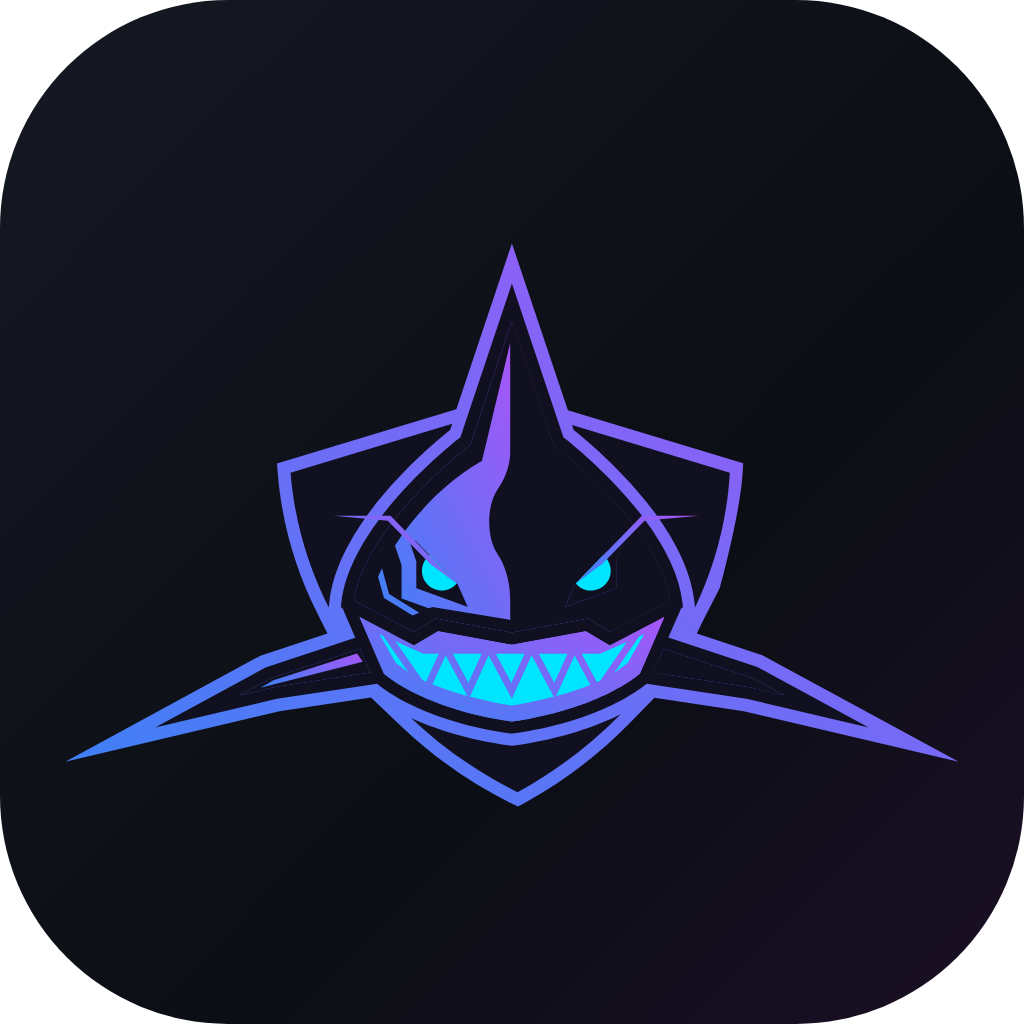
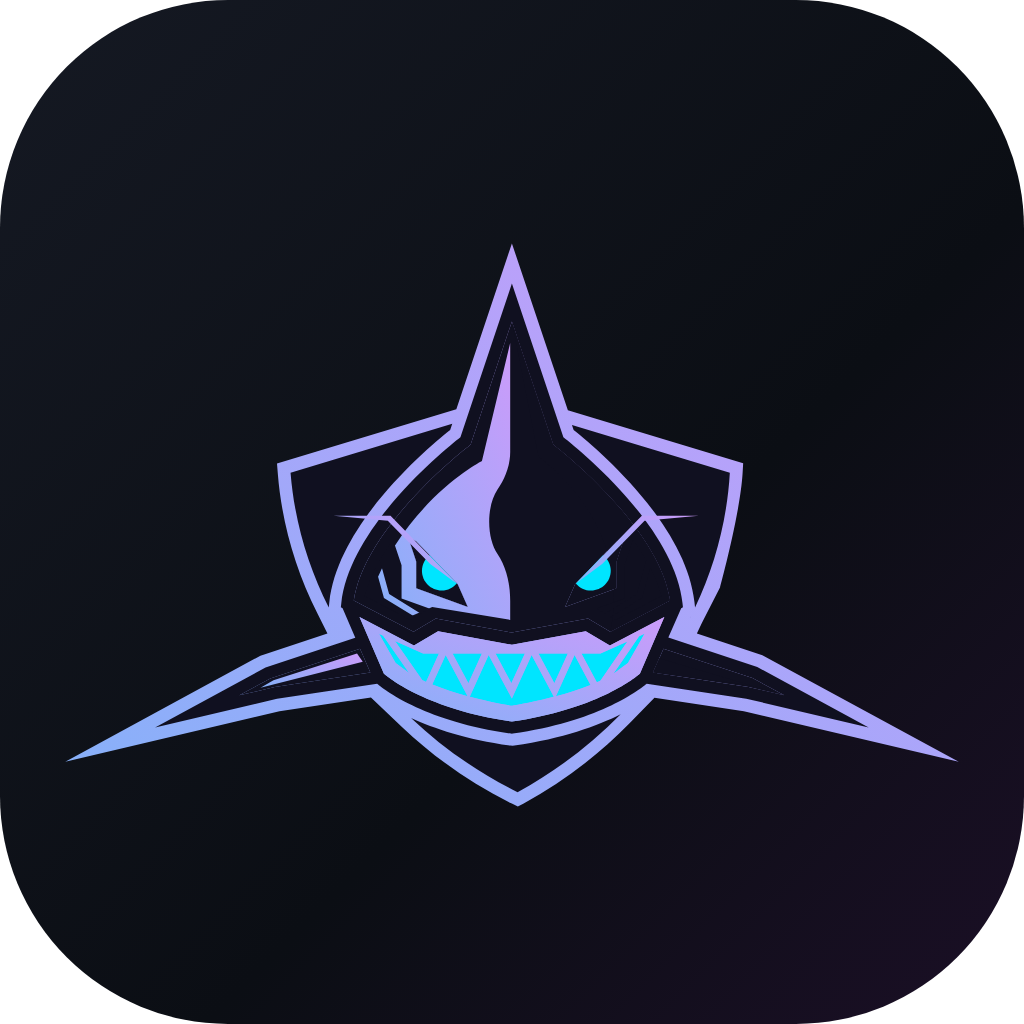
Breach was racing its own fade-in, and nobody outside an installed app could see it at all
Three things reported against the previous commit, in order.

The mark was barely legible in the header: measured, not just eyeballed
-#3B82F6/#A855F7 only clears 5.0-5.4:1 against the dark grounds it sits
on, against 13.4:1 for the mint it replaced and 18:1 for the JUKE
wordmark beside it. Brightened to #85B1F9/#CC9BFA (~9:1, same hue, held
lightness up rather than down) across every dark-ground file - mark,
void, appbar, app, both favicons, both app icons - and rebuilt the PNG
and .ico outputs from the new SVGs. The light-theme mark already had its
own separately-tuned gradient and needed nothing here.

Breach never played in an ordinary browser tab, on desktop or mobile,
because #boot-sonar inherited a restriction from the Sonar version that
scoped it to an installed/standalone app's cold launch only. Removed the
restriction rather than the report: theme.js no longer stamps
data-standalone, the CSS gate is gone, and main.jsx's teardown runs
unconditionally. The overlay now costs every visit its ~2s, the same
trade the "no skip-gate" decision already made once for fast connections
- this is that same argument, aimed at a bigger gate.

With Breach actually visible, two more things surfaced. First, every
Breach element had animation-delay 0 while the overlay itself took 200ms
to fade to opaque, so the shark was already mid-launch while the
homepage was still visible through it - a real recording caught it
mid-glitch. Added --breach-start-delay (200ms) to every element
[…]

Changed region(s): [[0.0625, 0.25, 0.9375, 0.7812], [0.5625, 0.5312, 0.5938, 0.5625]]

diff --git a/web/index.html b/web/index.html
@@ -116,20 +116,20 @@
        below — for the idle fallback and the wordmark — so the duplication
        note two paragraphs down still applies to those three.
 
-       Homepage v4 pass 0 scopes this overlay to the installed app's cold
-       launch only — it no longer fires on an ordinary browser visit to the
-       marketing site. theme.js (same file, same "must run before body
-       paints" slot this project already trusts for the light/dark flash)
-       stamps data-standalone on <html> synchronously, before this <style>
-       block is even applied, from matchMedia('(display-mode: standalone)')
-       plus the older navigator.standalone for iOS Safari. The
-       html:not([data-standalone]) #boot-sonar rule below is the only thing
-       that reads it: display:none removes the overlay from layout, paint
-       and hit-testing outright on a plain page load, so a marketing visit
-       never spends the frame this element used to cost. Nothing about
-       #boot-sonar's own markup, animation or teardown changes for the
-       standalone case — only whether it ever gets painted at all on every
-       other one.
+       It plays on every cold load now, browser tab or installed app alike —
+       reversed from Homepage v4 pass 0, which scoped this overlay to the
+       installed app's cold launch only and hid it outright everywhere else
+       via a data-standalone attribute theme.js stamped from
+       matchMedia('(display-mode: standalone)'). That gate is the reason
+       Breach shipped invisible on an ordinary desktop or mobile browser
+       visit: reported directly, from someone who had just watched it not
+       happen either way. The owner reversed the scoping rather than have it
+       be a second, quieter version of the exact "nobody on a fast
+       connection ever sees this" problem the no-skip-gate paragraph below
+       already describes solving once — an overlay restricted to installed
+       users is an overlay almost nobody sees at all. theme.js no longer
+       stamps data-standalone (nothing reads it any more); main.jsx's
+       teardown runs unconditionally to match.
 
        There is also no skip-gate for a fast boot, and carrying that forward
        is a deliberate choice rather than an oversight. The overlay used to
@@ -163,8 +163,6 @@
        instead, and it stays exactly where it always has in tailwind.config.js
        for SonarLoader.jsx's own benefit. -->
   <style>
-    html:not([data-standalone]) #boot-sonar { display: none; }
-
     #boot-sonar {
       /* Every delay below is a calc() off this one number rather than a
          literal, because the design's own timing was tuned as fractions of
@@ -173,6 +171,24 @@
          write them this way instead of copying the handoff's millisecond
          values directly. */
       --breach-total: 1600ms;
+      /* Every breach element's own animation-delay is
+         var(--breach-start-delay) plus its share of --breach-total, not
+         --breach-total alone — reported directly, from a recording that
+         caught it: the shark was already mid-launch, translated and
+         rotated, while the homepage was still visible faintly through the
+         overlay behind it. #boot-sonar itself takes 200ms (sonar-boot-in)
+         to reach full opacity, and every breach* animation had delay 0, so
+         for that entire 200ms the reader was watching the site, a
+         half-opaque panel, and an already-moving shark all layered on top
+         of each other at once — three things changing when the eye can
+         only parse one. Sonar's own mark avoided this by construction:
+         sonar-focus carried its own 300ms delay, longer than the fade-in,
+         so the container had already finished becoming opaque before
+         anything inside it started moving. --breach-start-delay restores
+         that same ordering for Breach: nothing animates until the overlay
+         itself is a solid panel, then the whole sequence plays exactly as
+         choreographed, just 200ms later start to finish. */
+      --breach-start-delay: 200ms;
       position: fixed; inset: 0; z-index: 9999;
       display: flex; flex-direction: column;
       align-items: center; justify-content: center; gap: 30px;
@@ -258,7 +274,7 @@
     #boot-sonar i {
       position: absolute; width: 150px; height: 150px; border-radius: 50%;
       animation: sonar-ring 2100ms ease-out infinite both;
-      animation-delay: var(--breach-total);
+      animation-delay: calc(var(--breach-start-delay) + var(--breach-total));
     }
     /* purple-400 rather than the base purple — unchanged from Sonar's own
        ring, and the reasoning is the same reasoning the ripple below reuses:
@@ -270,8 +286,8 @@
        Keep this in step with the RINGS array in SonarLoader.jsx, which
        carries the same three colours for the panel tier. */
     #boot-sonar i:nth-of-type(1) { border: 1px solid rgba(0,229,255,.55); }
-    #boot-sonar i:nth-of-type(2) { border: 1px solid rgba(0,229,255,.45); animation-delay: calc(var(--breach-total) + 700ms); }
-    #boot-sonar i:nth-of-type(3) { border: 1px solid rgba(154,63,192,.9); animation-delay: calc(var(--breach-total) + 1400ms); }
+    #boot-sonar i:nth-of-type(2) { border: 1px solid rgba(0,229,255,.45); animation-delay: calc(var(--breach-start-delay) + var(--breach-total) + 700ms); }
+    #boot-sonar i:nth-of-type(3) { border: 1px solid rgba(154,63,192,.9); animation-delay: calc(var(--breach-start-delay) + var(--breach-total) + 1400ms); }
 
     /* The scene is the same 212x132 box the old sonar-focus mark used — the
        fixed 564:352 ratio, at the size the design was reviewed at. Everything
@@ -305,22 +321,39 @@
     }
     #boot-sonar .breach-mark {
       animation: breachMark var(--breach-total) linear 1 both;
+      animation-delay: var(--breach-start-delay);
     }
     #boot-sonar .breach-settled {
       opacity: 0;
       animation: breachSettle var(--breach-total) linear 1 both;
+      animation-delay: var(--breach-start-delay);
     }
 
-    /* The waterline the shark launches out of and falls back through. 18px
-       2px glow at .7 is the design's own value; the bar itself is solid
-       #00E5FF rather than the glow colour at the glow's own alpha, because a
-       glow with nothing solid at its centre reads as a smear, not a surface. */
+    /* The waterline the shark launches out of and falls back through: a
+       bright core plus a soft wash beneath it, not the line alone. 18px 2px
+       glow at .7 is the design's own value for the core — the bar itself is
+       solid #00E5FF rather than the glow colour at the glow's own alpha,
+       because a glow with nothing solid at its centre reads as a smear, not
+       a surface. The wash is the second thing the approved mockup carries
+       that a box-shadow alone can't reach: a wide gradient fading down from
+       the line, reported back after it was missing here entirely ("no green
+       fading like the water"). Both share breachWaterPulse, so the wash
+       swells with the same two pulses the line does rather than sitting
+       there as flat, static light. */
+    #boot-sonar .breach-water-wash {
+      position: absolute; left: 50%; top: 63%;
+      width: 320px; height: 110px; margin-left: -160px;
+      background: linear-gradient(to bottom, rgba(0,229,255,.3), rgba(0,229,255,0) 75%);
+      animation: breachWaterPulse var(--breach-total) linear 1 both;
+      animation-delay: var(--breach-start-delay);
+    }
     #boot-sonar .breach-water {
       position: absolute; left: 50%; top: 63%;
       width: 150px; height: 2px; margin-left: -75px; border-radius: 1px;
       background: #00E5FF;
       box-shadow: 0 0 18px 2px rgba(0,229,255,.7);
       animation: breachWaterPulse var(--breach-total) linear 1 both;
+      animation-delay: var(--breach-start-delay);
     }
 
     /* Six droplets, two waves of three: wave 1 fires with the water's first
@@ -335,8 +368,8 @@
       position: absolute; top: 63%; width: 5px; height: 5px; border-radius: 50%;
       animation: breachDroplet 550ms linear 1 both;
     }
-    #boot-sonar .breach-droplet:nth-child(-n+3) { animation-delay: calc(var(--breach-total) * .06); }
-    #boot-sonar .breach-droplet:nth-child(n+4)  { animation-delay: calc(var(--breach-total) * .41); }
+    #boot-sonar .breach-droplet:nth-child(-n+3) { animation-delay: calc(var(--breach-start-delay) + var(--breach-total) * .06); }
+    #boot-sonar .breach-droplet:nth-child(n+4)  { animation-delay: calc(var(--breach-start-delay) + var(--breach-total) * .41); }
     #boot-sonar .breach-droplet:nth-child(1) { left: calc(50% - 22px); background: #7CE9FA; }
     #boot-sonar .breach-droplet:nth-child(2) { left: calc(50% - 2px);  background: #00E5FF; }
     #boot-sonar .breach-droplet:nth-child(3) { left: calc(50% + 16px); background: #7CE9FA; }
@@ -357,7 +390,7 @@
       width: 60px; height: 60px; margin-left: -30px; margin-top: -30px;
       border-radius: 50%; border: 1.5px solid rgba(154,63,192,.9);
       animation: breachRipple 500ms linear 1 both;
-      animation-delay: calc(var(--breach-total) * .88);
+      animation-delay: calc(var(--breach-start-delay) + var(--breach-total) * .88);
     }
 
     /* The wordmark at the stacked lockup's own proportions: Archivo 900,
@@ -451,7 +484,7 @@
        breach-settled fades straight in on its own and nothing else plays. */
     @media (prefers-reduced-motion: reduce) {
       #boot-sonar i { display: none; }
-      #boot-sonar .breach-mark, #boot-sonar .breach-water,
+      #boot-sonar .breach-mark, #boot-sonar .breach-water, #boot-sonar .breach-water-wash,
       #boot-sonar .breach-droplet, #boot-sonar .breach-ripple { display: none; }
       #boot-sonar .breach-settled { animation: sonar-fade 300ms ease-out 300ms both; }
       #boot-sonar b { animation: sonar-fade 300ms ease-out 420ms both; }
@@ -489,14 +522,16 @@
        this comment already gave the Sonar version of this screen: do not add
        a tagline here.
 
-       breach-water/-droplet/-ripple are the splash; breach-mark is the shark
-       in flight; breach-settled is its motionless understudy, invisible until
-       the very end - see the CSS for why there are two. The three <i> rings
-       are Sonar's own idle loop, silent until breach-settled takes over, for
-       the boot slow enough to still be waiting past --breach-total. -->
+       breach-water-wash/-water/-droplet/-ripple are the splash; breach-mark
+       is the shark in flight; breach-settled is its motionless understudy,
+       invisible until the very end - see the CSS for why there are two. The
+       three <i> rings are Sonar's own idle loop, silent until breach-settled
+       takes over, for the boot slow enough to still be waiting past
+       --breach-total. -->
   <div id="boot-sonar" aria-hidden="true">
     <i></i><i></i><i></i>
     <div class="breach-scene">
+      <span class="breach-water-wash"></span>
       <span class="breach-water"></span>
       <span class="breach-droplet"></span><span class="breach-droplet"></span><span class="breach-droplet"></span>
       <span class="breach-droplet"></span><span class="breach-droplet"></span><span class="breach-droplet"></span>

diff --git a/web/src/main.jsx b/web/src/main.jsx
@@ -56,17 +56,17 @@ if (draftRoomRoot) {
   )
 }
 
-// Sonar - see #boot-sonar at the top of index.html - covers the blocking
+// Breach (see #boot-sonar at the top of index.html) covers the blocking
 // classic scripts and React's own boot. This is where it comes down.
 //
-// Homepage v4 pass 0 scopes the element to the installed app's cold
-// launch (index.html's own <style> hides it outright everywhere else via
-// the data-standalone attribute theme.js stamps before paint). The teardown
-// below still runs unconditionally on every load — it's a no-op-shaped
-// couple of rAFs and a setTimeout against an element that's either really
-// there or display:none, never a correctness question — but skipping it
-// outright when the attribute isn't set avoids scheduling work for an
-// overlay nobody is going to see, on every single marketing-site visit.
+// Runs unconditionally on every load now — reversed from Homepage v4 pass
+// 0's original scoping, which skipped this whole block outright unless
+// document.documentElement had a data-standalone attribute theme.js used
+// to stamp. That scoping meant the overlay, Breach included, never played
+// on an ordinary browser visit at all: reported directly, from someone who
+// opened the site expecting to see it and did not, on desktop or mobile
+// either one. theme.js no longer stamps the attribute and nothing here
+// reads it any more.
 //
 // Two nested rAFs put the teardown after React's first paint, which is the real
 // "ready" signal on this page. app.js is a classic script, so window.JukeEngine
@@ -79,10 +79,12 @@ if (draftRoomRoot) {
 // it, so a tab opened in the background and looked at later finds the overlay
 // still at opacity 0 and removes it outright, with no loader mid-flight.
 //
-// Which is the same branch a fast foreground load takes. The fade-in is delayed
-// 300ms, so an overlay still at opacity 0 never became visible and is removed
-// rather than faded - that delay is what keeps a quick load from flashing a
-// logo, and a flash of logo reads as a glitch rather than as polish.
+// Which is the same branch a fast foreground load takes. The fade-in used to be
+// delayed 300ms for exactly that reason — so an overlay still at opacity 0 was
+// removed rather than faded, keeping a quick load from flashing a logo — but
+// that delay is gone now too (see index.html's own note on why) and MIN_VISIBLE_MS
+// below does the same job from the other end: holding a real minimum instead of
+// skipping a fast one.
 //
 // The pin-then-flush dance is not superstition. Setting `animation: none` and
 // changing opacity in one style change is the single case where the
@@ -92,39 +94,44 @@ if (draftRoomRoot) {
 // animation, forcing a style flush, and only then handing over to the
 // [data-sonar-out] rule makes the fade deterministic in every engine.
 const boot = document.getElementById('boot-sonar')
-if (boot && document.documentElement.hasAttribute('data-standalone')) {
+if (boot) {
   requestAnimationFrame(() =>
     requestAnimationFrame(() => {
       // Hold for MIN_VISIBLE_MS from navigation start, then leave. performance
       // .now() is measured from the time origin, so it is exactly how long this
       // page has been loading — no separate start timestamp to keep in step.
       //
-      // 2100ms held unchanged across the Sonar → Breach swap, and for the same
-      // shape of reason it was chosen the first time: it is past every element
-      // in the overlay's own arrival, not a round number.
+      // Every breach* element now carries index.html's --breach-start-delay
+      // (200ms) on top of its own share of --breach-total, so every number
+      // below is 200ms later than the design's own choreography states in
+      // isolation — see that custom property's own comment for why: nothing
+      // may start moving before #boot-sonar itself (sonar-boot-in, 200ms)
+      // has actually finished becoming opaque, or the shark launches while
+      // the homepage is still visible through it.
       //
-      //   shark      breachMark        --breach-total (1600ms), no delay  -> settles/fades 1600ms
-      //   wordmark   sonar-label       500ms after 640ms delay            -> settles       1140ms
-      //   ripple     breachRipple      500ms after .88 * 1600ms delay     -> completes      1908ms
-      //   idle ring 1 sonar-ring       2100ms, --breach-total delay       -> enters         1600ms
+      //   shark      breachMark        200ms + --breach-total, no further delay -> settles/fades 1800ms
+      //   wordmark   sonar-label       500ms after 640ms delay                  -> settles        1140ms
+      //   ripple     breachRipple      500ms after 200ms + .88 * 1600ms delay   -> completes       2108ms
+      //   idle ring 1 sonar-ring       2100ms, 200ms + --breach-total delay     -> enters          1800ms
       //
       // breachMark's own 100% fades the shark to opacity 0, so what is on
-      // screen at 1600ms is a blank instant — covered by breach-settled's
-      // crossfade (see index.html), which finishes at the same 1600ms mark.
-      // The ripple is the actual last arrival, completing at 1908ms; holding
-      // to 2100ms leaves it ~200ms of room rather than cutting it off flush,
-      // and keeps the overall boot experience the same length it has always
-      // been even though everything inside it changed. A loading state that
-      // never shows its own last element is not finished, it is interrupted —
-      // the lesson the first version of this hold (900ms, the mark alone) was
-      // written to fix, and it applies exactly as much to a ripple as it did
-      // to a third ring.
+      // screen at 1800ms is a blank instant — covered by breach-settled's
+      // crossfade (see index.html), which finishes at the same 1800ms mark.
+      // The ripple is the actual last arrival, completing at 2108ms; holding
+      // to 2300ms leaves it ~200ms of room rather than cutting it off flush.
+      // That is 200ms later than this hold's own pre-Breach value (2100ms),
+      // and it is the same 200ms for the same reason: the whole sequence
+      // moved, so the hold moves with it. A loading state that never shows
+      // its own last element is not finished, it is interrupted — the lesson
+      // the first version of this hold (900ms, the mark alone) was written
+      // to fix, and it applies exactly as much to a ripple as it did to a
+      // third ring.
       //
       // This whole hold replaces an early return that removed the element
       // outright while it was still at opacity 0 — the branch a fast load
       // always took, and the reason the loader was invisible to anyone on a
       // quick connection.
-      const MIN_VISIBLE_MS = 2100
+      const MIN_VISIBLE_MS = 2300
       setTimeout(() => {
       const shown = getComputedStyle(boot).opacity
 

diff --git a/web/src/components/DraftRoom.jsx b/web/src/components/DraftRoom.jsx
@@ -142,16 +142,26 @@ export default function DraftRoom() {
   // Start Draft flips this true; the poll effect below drops it once the
   // engine both reports started AND has real data loaded (players.js/
   // stats.js/draft-engine.js — see app.js's deferred-data boot and its
-  // dataReady() bridge method), held to a 400ms floor. Distinct from
-  // `started` itself: engine.startDraft() flips state.started
-  // synchronously in app.js, before React has had a chance to paint
-  // anything for it, and reaching #/draft-room at all almost always means
-  // the deferred data landed long ago on the homepage — so this is mostly
-  // the floor doing its job, not a real wait, but the brief's requirement
-  // is unconditional ("every surface, always"), not "only when slow".
+  // dataReady() bridge method), held to a floor. Distinct from `started`
+  // itself: engine.startDraft() flips state.started synchronously in
+  // app.js, before React has had a chance to paint anything for it, and
+  // reaching #/draft-room at all almost always means the deferred data
+  // landed long ago on the homepage — so this is mostly the floor doing
+  // its job, not a real wait, but the brief's requirement is unconditional
+  // ("every surface, always"), not "only when slow".
+  //
+  // The floor used to be 400ms, which is the same mistake #boot-sonar's own
+  // MIN_VISIBLE_MS made once already (there: 900ms, "chosen off the mark
+  // alone") — short enough that dataReady() being already true (the common
+  // case) meant this screen was never actually seen, just flashed. Reported
+  // directly: the Sonar ring never got the chance to complete a sweep, let
+  // alone loop, before the board appeared underneath it. 2100 is
+  // SonarLoader's own RING_MS — one full ring cycle — the same number and
+  // the same reasoning #boot-sonar's floor already uses, because this is
+  // the same component doing the same job in a second place.
   const [starting, setStarting] = useState(false)
   const startingSinceRef = useRef(0)
-  const START_TRANSITION_MIN_MS = 400
+  const START_TRANSITION_MIN_MS = 2100
   // The one thing that can refuse the Start button, said beside it rather
   // than folded away — the rule the legacy setup screen already followed.
   const problem = engine ? engine.setupProblem() : ''

diff --git a/theme.js b/theme.js
@@ -22,20 +22,12 @@
   } catch (err) {}   // private browsing can make localStorage throw
 })();
 
-/* Same file, same reason: whatever reads this has to know before body
-   paints, or the thing it's deciding has already been drawn wrong once.
-   #boot-sonar (index.html) is scoped to the installed app's cold launch —
-   homepage v4 pass 0 — and this is the one synchronous place that can
-   tell it apart from an ordinary browser visit before the CSS deciding
-   its display applies. matchMedia is synchronous; nothing here waits on
-   anything. navigator.standalone is the older iOS Safari signal, absent
-   as a property on browsers that don't need it rather than false. */
-(function () {
-  try {
-    var standalone = window.matchMedia &&
-      window.matchMedia("(display-mode: standalone)").matches;
-    if (standalone || navigator.standalone) {
-      document.documentElement.setAttribute("data-standalone", "");
-    }
-  } catch (err) {}
-})();
+/* This file used to carry a second IIFE here, stamping data-standalone from
+   matchMedia('(display-mode: standalone)') so #boot-sonar (index.html)
+   could tell an installed-app cold launch apart from an ordinary browser
+   visit before its CSS applied. That overlay — Sonar, then Breach — was
+   scoped to the installed case only, which meant it never played on a
+   regular desktop or mobile browser visit at all: reported directly, from
+   someone who opened the site expecting to see it and did not. The owner
+   reversed the scoping rather than the gate, so the overlay now plays on
+   every cold load and nothing here needs to tell the two apart any more. */
